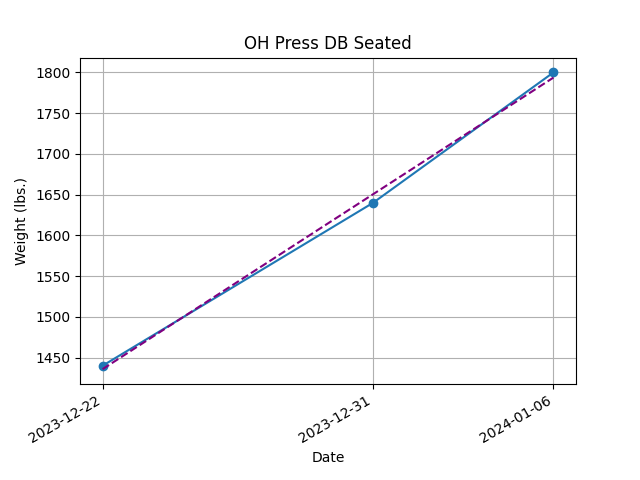
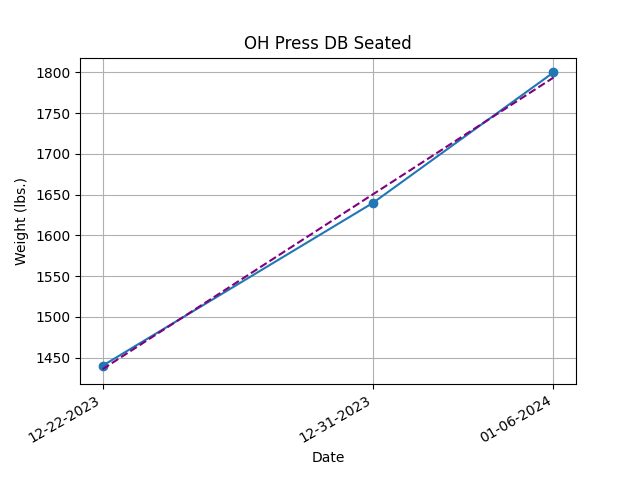
format the date

diff --git a/main.py b/main.py
@@ -113,7 +113,7 @@ def plot_lifts(master):
         # Show X-axis major tick marks as dates
         loc = mdates.AutoDateLocator()
         plt.gca().xaxis.set_major_locator(loc)
-        plt.gca().xaxis.set_major_formatter(mdates.AutoDateFormatter(loc))
+        plt.gca().xaxis.set_major_formatter(mdates.DateFormatter('%m-%d-%Y'))
         plt.gcf().autofmt_xdate()
         plt.xticks(x)
 
